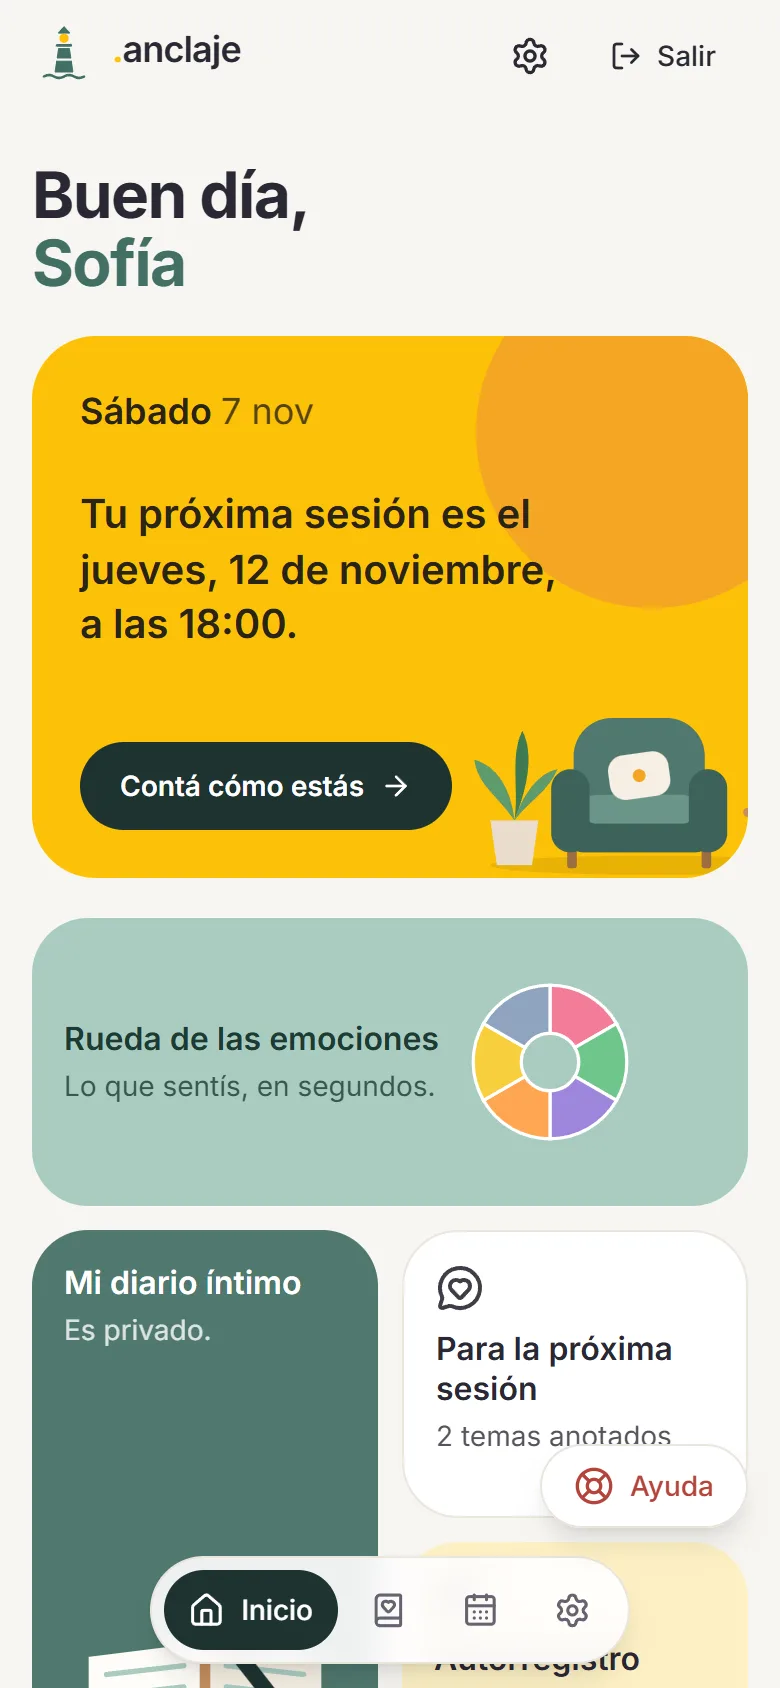
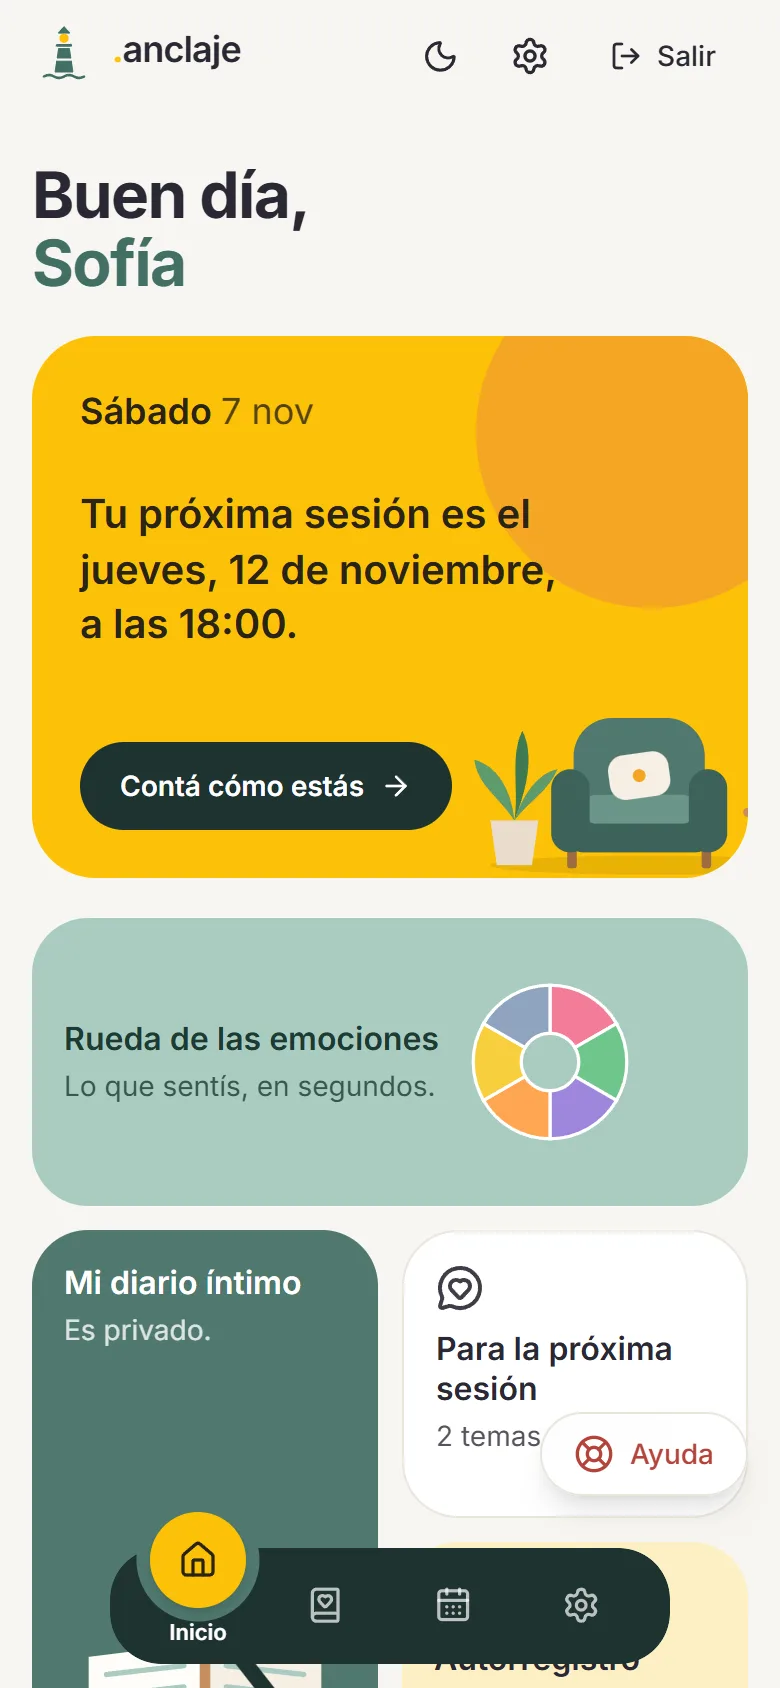
Landing: más pantallas del paciente y qué puede hacer la profesional desde su panel

Changed region(s): [[0.1231, 0.8318, 0.9538, 1.0], [0.5538, 0.0308, 0.5846, 0.0616]]

diff --git a/src/app/page.tsx b/src/app/page.tsx
@@ -7,6 +7,7 @@ import {
   FileLock2,
   HeartHandshake,
   LifeBuoy,
+  ListChecks,
   LockKeyhole,
   MessageSquareHeart,
   NotebookPen,
@@ -321,7 +322,7 @@ export default async function Home() {
                 ordenado en tu panel antes de la sesión. Solo lo que elige compartir.
               </p>
             </div>
-            <ul className="-mx-4 flex snap-x snap-mandatory gap-6 overflow-x-auto px-4 pb-4 sm:mx-0 sm:px-0 md:grid md:grid-cols-3 md:gap-8 md:overflow-visible">
+            <ul className="-mx-4 flex snap-x snap-mandatory gap-6 overflow-x-auto px-4 pb-4 sm:mx-0 sm:px-0 md:grid md:grid-cols-3 md:gap-x-8 md:gap-y-14 md:overflow-visible">
               {PATIENT_SCREENS.map((s) => (
                 <li
                   key={s.src}
@@ -346,7 +347,60 @@ export default async function Home() {
             </ul>
             <p className="text-sm text-[#2a2416]/70">
               Capturas reales de la app, con una paciente de ejemplo. Se instala desde el navegador,
-              sin pasar por las tiendas.
+              sin pasar por las tiendas. En el celular, deslizá para ver más.
+            </p>
+
+            {/* Lo que hace la profesional con todo eso */}
+            <div className="grid items-center gap-10 rounded-[2rem] bg-white/70 p-6 sm:p-10 lg:grid-cols-[1fr_1.1fr]">
+              <div className="flex flex-col gap-6">
+                <div className="flex flex-col gap-2">
+                  <p className="text-sm font-semibold tracking-widest text-[#8a5a00] uppercase">
+                    Y vos, desde tu panel
+                  </p>
+                  <h3 className="text-3xl font-extrabold tracking-[-0.03em] text-balance sm:text-4xl">
+                    Vos decidís qué le proponés. Tu paciente, qué te comparte.
+                  </h3>
+                </div>
+                <ul className="flex flex-col gap-5">
+                  {PRO_CONTROLS.map(({ icon: Icon, title, text }) => (
+                    <li key={title} className="flex gap-4">
+                      <span className="flex size-11 shrink-0 items-center justify-center rounded-2xl bg-[#fcc107] text-[#2a2416]">
+                        <Icon className="size-5" aria-hidden />
+                      </span>
+                      <span className="flex flex-col gap-0.5">
+                        <span className="font-bold">{title}</span>
+                        <span className="text-[#2a2416]/80">{text}</span>
+                      </span>
+                    </li>
+                  ))}
+                </ul>
+              </div>
+              <figure className="flex flex-col gap-3">
+                <div className="overflow-hidden rounded-2xl bg-[#1e3331] shadow-[0_30px_60px_-25px_rgba(30,51,49,0.55)]">
+                  <div className="flex gap-1.5 px-4 py-3" aria-hidden>
+                    <span className="size-2.5 rounded-full bg-white/30" />
+                    <span className="size-2.5 rounded-full bg-white/30" />
+                    <span className="size-2.5 rounded-full bg-white/30" />
+                  </div>
+                  <Image
+                    src="/landing/pro-evaluacion.webp"
+                    alt="Resultado de una evaluación en el panel: puntaje total, respuestas con sus puntos y aviso de ítem crítico."
+                    width={1215}
+                    height={930}
+                    sizes="(min-width: 1024px) 560px, 92vw"
+                    className="w-full"
+                  />
+                </div>
+                <figcaption className="text-sm text-[#2a2416]/70">
+                  Así te llega una evaluación respondida: el puntaje ya calculado, cada respuesta
+                  con sus puntos y un aviso si se marcó un ítem crítico.
+                </figcaption>
+              </figure>
+            </div>
+            <p className="text-sm text-[#2a2416]/70">
+              * El PHQ-9 y el GAD-7 vienen con la puntuación y los rangos ya cargados; el texto de
+              las preguntas lo copiás de la versión validada en español que uses, por sus
+              condiciones de uso.
             </p>
           </div>
         </section>
@@ -501,6 +555,52 @@ const PATIENT_SCREENS = [
     alt: "Lista de temas que la paciente quiere hablar en la próxima sesión.",
     title: "Para la próxima sesión",
     text: "Anota lo que quiere hablar, y vos lo ves antes de arrancar.",
+  },
+  {
+    src: "/landing/app-autorregistro.webp",
+    alt: "Lista de autorregistros: el pensamiento y cuánto lo creía antes y después.",
+    title: "Autorregistros",
+    text: "Paso a paso, para mirar un pensamiento: situación, emoción, evidencia y alternativa.",
+  },
+  {
+    src: "/landing/app-plan-de-calma.webp",
+    alt: "Plan de calma con un ejercicio de respiración guiada.",
+    title: "Su plan de calma",
+    text: "Respiración guiada y lo que arman juntos, para los momentos difíciles.",
+  },
+  {
+    src: "/landing/app-tareas.webp",
+    alt: "Tareas y evaluaciones que propuso la psicóloga, con comentarios del paciente.",
+    title: "Tareas y evaluaciones",
+    text: "Lo que le propusiste, a su ritmo y sin rachas. Responde los cuestionarios desde el celular.",
+  },
+];
+
+const PRO_CONTROLS = [
+  {
+    icon: Eye,
+    title: "Ves solo lo que comparte",
+    text: "La rueda y los autorregistros se comparten por defecto; el diario es privado. Tu paciente lo puede cambiar en cada registro.",
+  },
+  {
+    icon: ListChecks,
+    title: "Le asignás tareas",
+    text: "Con fecha y recursos de tu biblioteca. Ves cuáles hizo y lo que te comentó.",
+  },
+  {
+    icon: HeartHandshake,
+    title: "Arman juntos su plan de calma",
+    text: "Le cargás técnicas, frases, actividades y contactos de confianza. Lo tiene a mano cuando la cosa se pone difícil.",
+  },
+  {
+    icon: ClipboardList,
+    title: "Evaluaciones con puntaje automático",
+    text: "Armás tus cuestionarios o partís de las plantillas del PHQ-9 y GAD-7*. El puntaje, el rango y los ítems críticos se calculan solos. Incluido, sin pagar por cada test.",
+  },
+  {
+    icon: MessageSquareHeart,
+    title: "Le dejás devoluciones",
+    text: "Sobre lo que compartió, para que sepa que lo leíste.",
   },
 ];
 

diff --git a/docs/DECISIONES.md b/docs/DECISIONES.md
@@ -466,3 +466,10 @@ salvo que se indique lo contrario.
 - **Barra del paciente con muesca (nov 2026):** barra verde noche flotante; la sección activa sube
   en un círculo dorado y la barra tiene un recorte (máscara radial) que lo sigue con un resorte
   (`motion`, respeta "reducir movimiento"). Debajo del círculo va el nombre de la sección.
+- **Landing: seis pantallas del paciente + "Y vos, desde tu panel" (nov 2026):** se suman
+  autorregistro, plan de calma y tareas/evaluaciones, y un bloque que explica qué controla cada
+  uno (qué se comparte, tareas, plan de calma, evaluaciones con puntaje automático, devoluciones)
+  con la captura del resultado de una evaluación. Sobre los tests decimos "puntaje automático
+  incluido" y aclaramos con asterisco que el PHQ-9 y el GAD-7 vienen con puntuación y rangos, pero
+  el texto de los ítems lo pone la profesional (no podemos publicarlo). No se promete que sea
+  parte de un plan pago o gratis hasta definir los planes.
